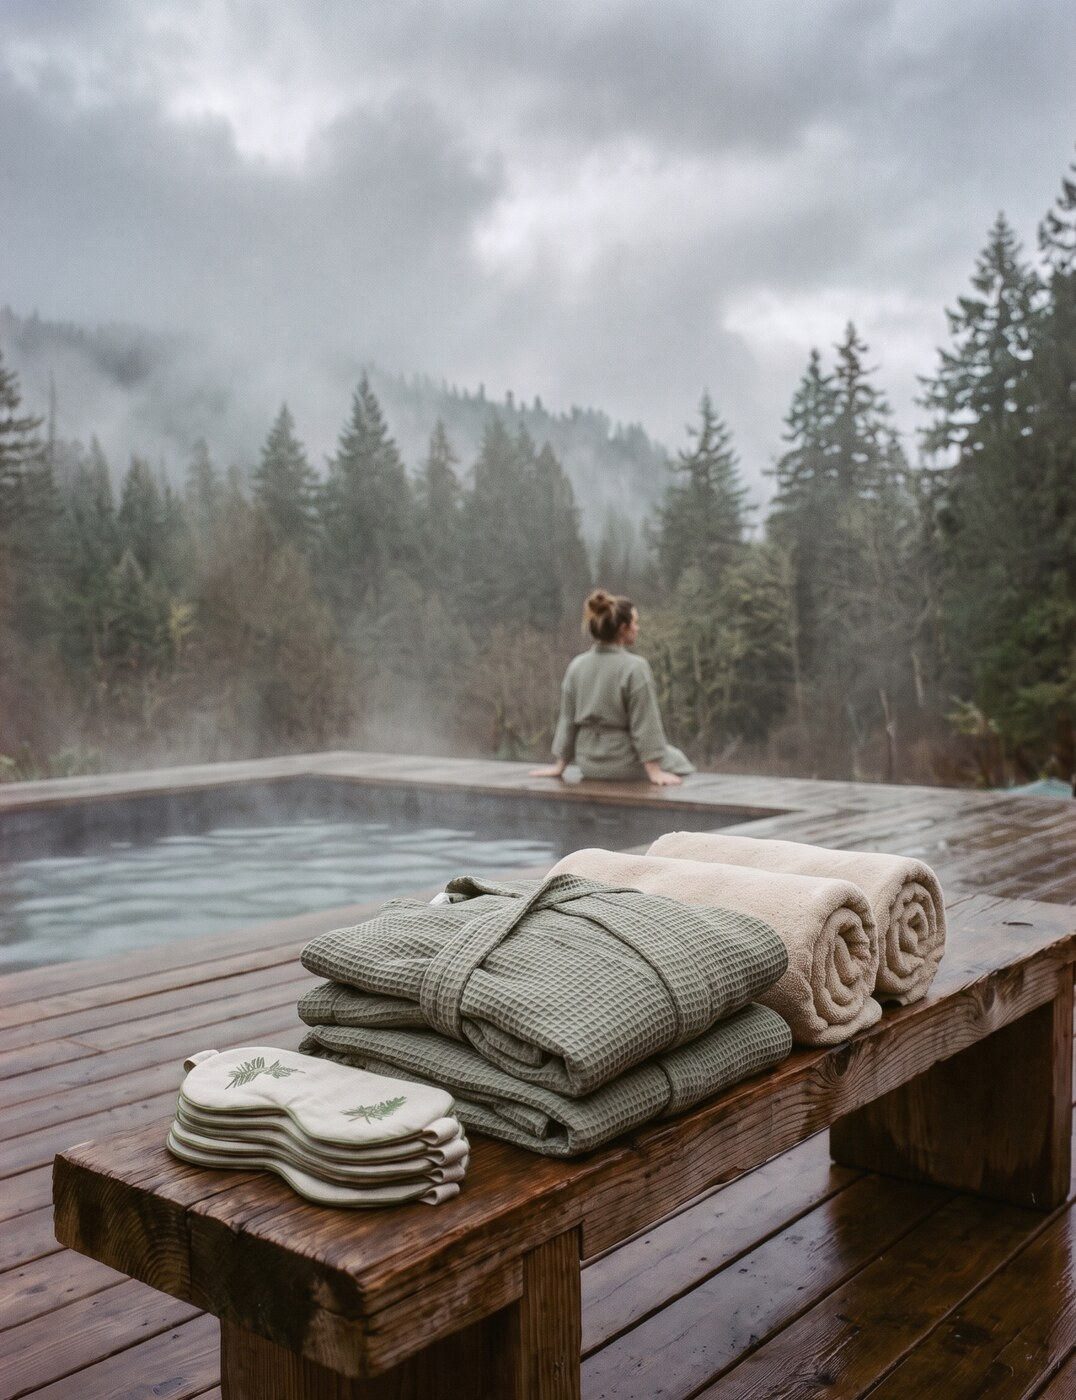
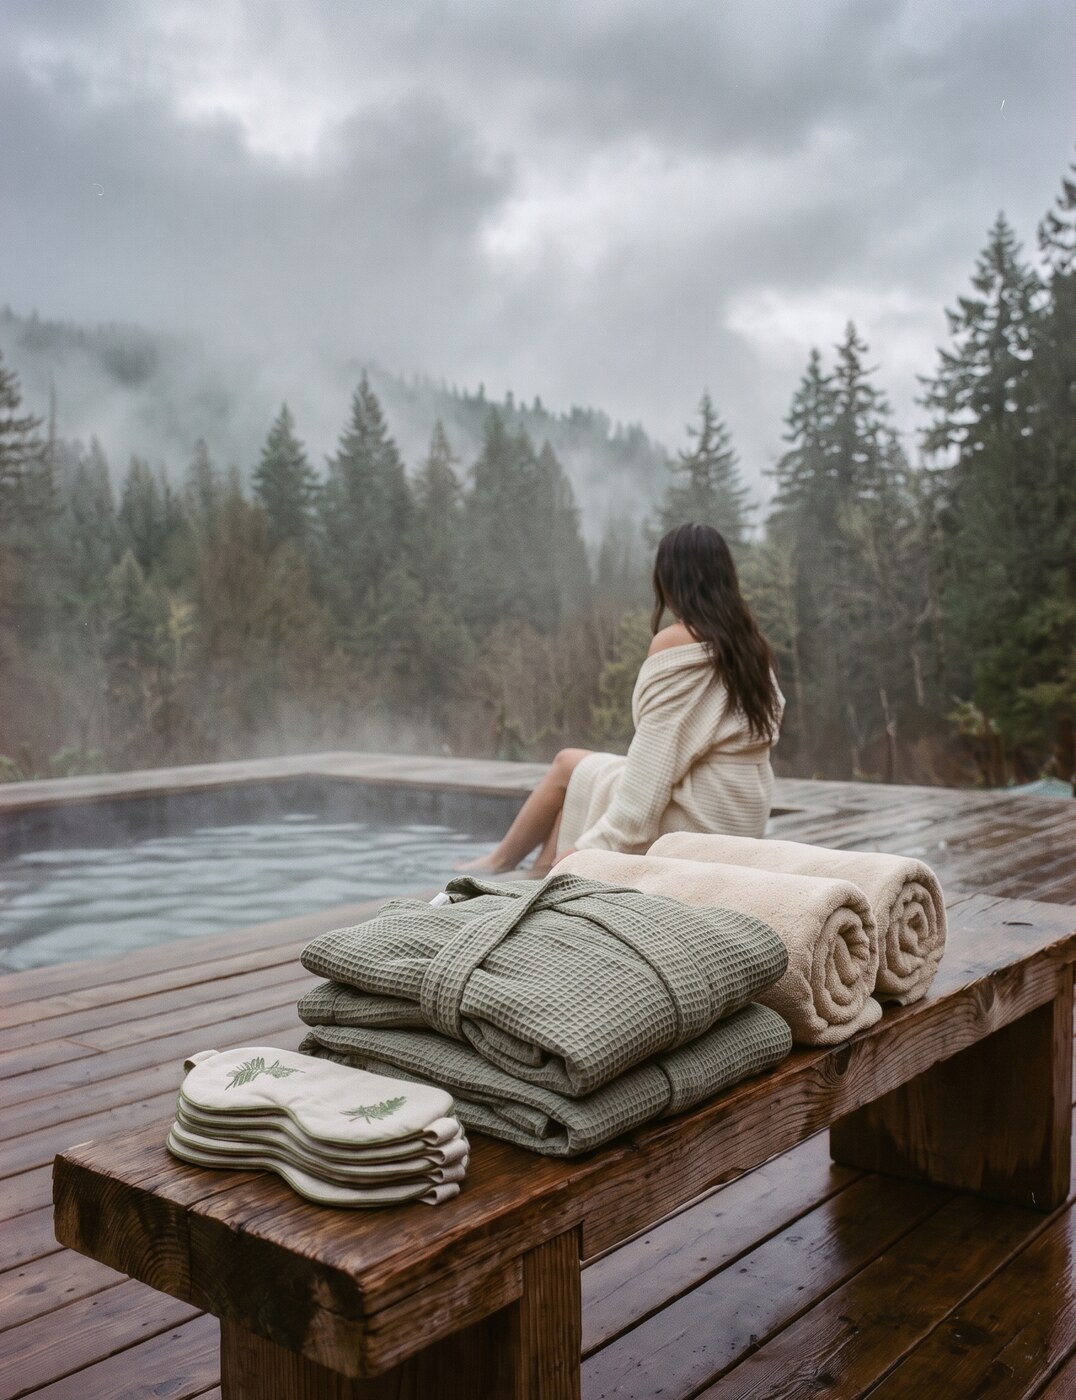
Hero: alternative pool-edge image
Claude-Session: https://claude.ai/code/session_017X6ri4gB89xhMXLJJk62Ji

diff --git a/index.html b/index.html
@@ -181,7 +181,7 @@ footer .logo{display:inline-flex;color:var(--linen);margin:0}
   <p>Robes, lounge sets and the small comforts your guests carry from treatment room to thermal pool. Natural linen and waffle, made in our Bali studio, finished with your name.</p>
   <div class="ctas"><a class="btn solid" href="#build">Build your collection</a><a class="btn" href="#range">See the range</a></div>
  </div>
- <div class="pics"><div><img src="img/us-4.jpg" alt="Folded sage waffle robes and towels on a cedar bench beside a steaming outdoor pool in a Pacific Northwest forest" style="object-position:50% 70%"></div></div>
+ <div class="pics"><div><img src="img/us-4.jpg" alt="Folded sage waffle robes and towels on a cedar bench beside a steaming outdoor pool, a guest in a robe on the pool edge, in a Pacific Northwest forest" style="object-position:50% 70%"></div></div>
 </div>
 
 <div class="trust"><div class="wrap"><span>Minimums from 50 pieces</span><span>Your logo &amp; label</span><span>Linen · waffle · gauze · recycled canvas</span><span>Made in Bali</span></div></div>
